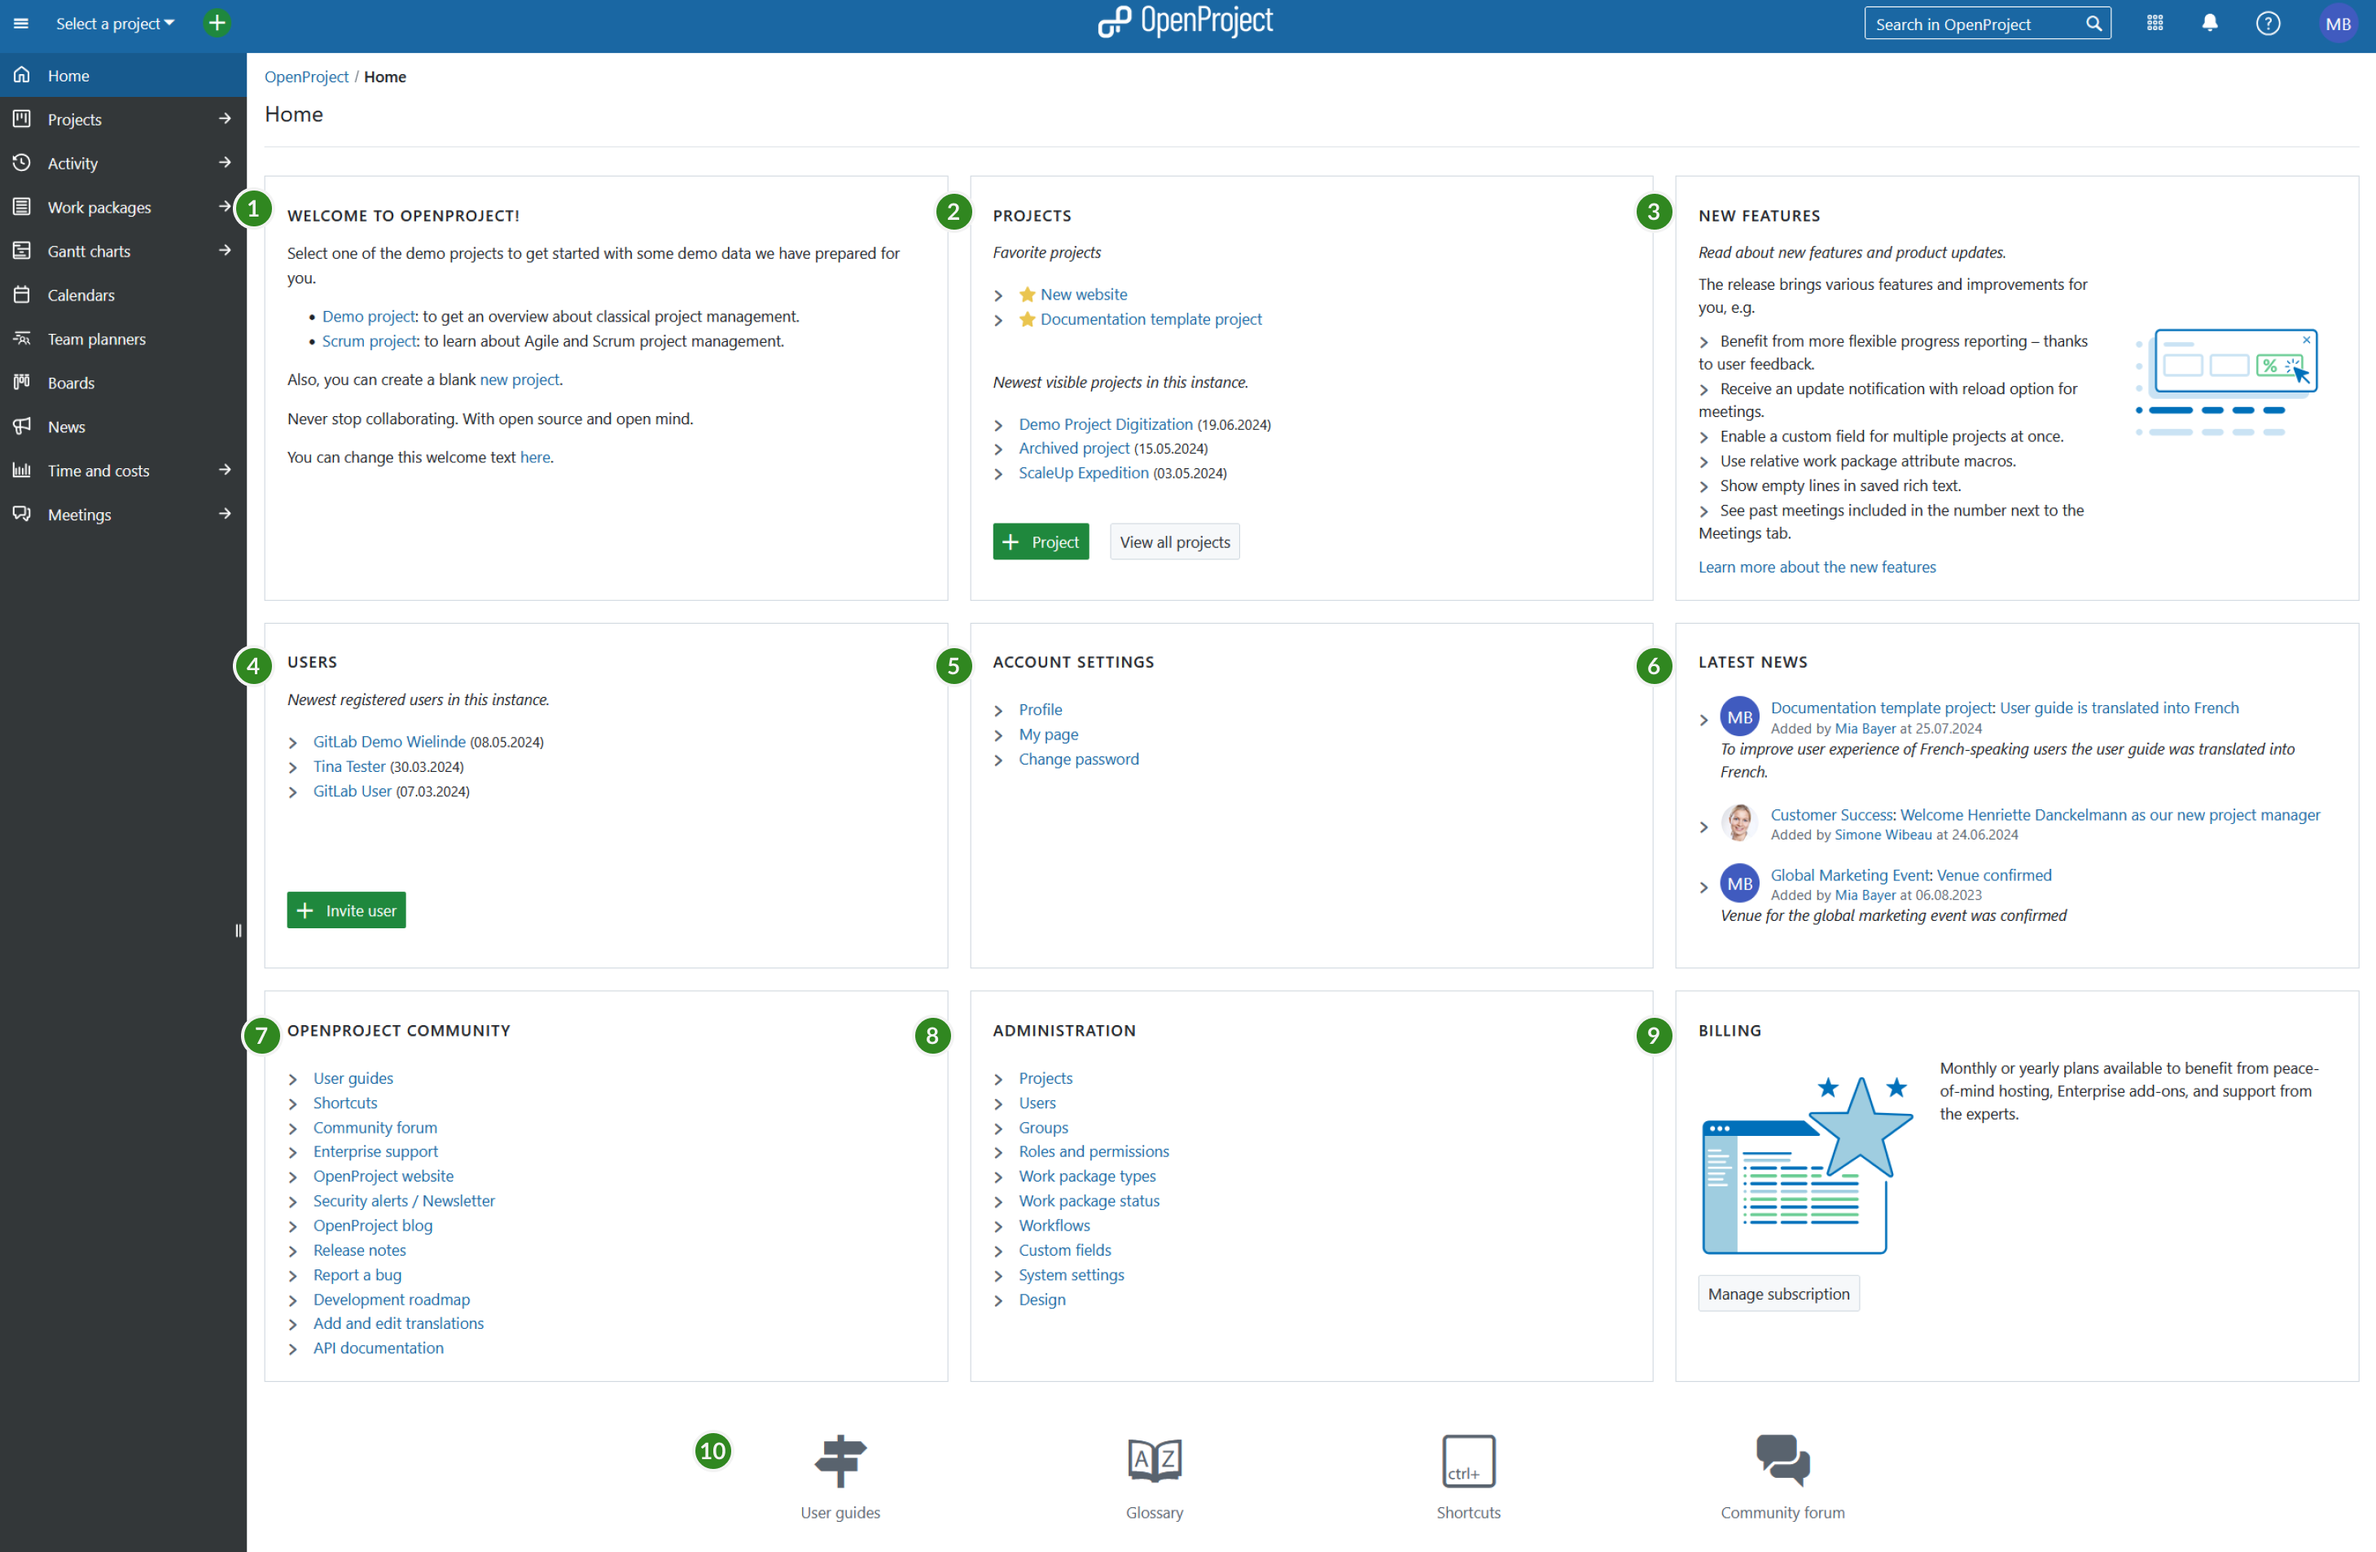
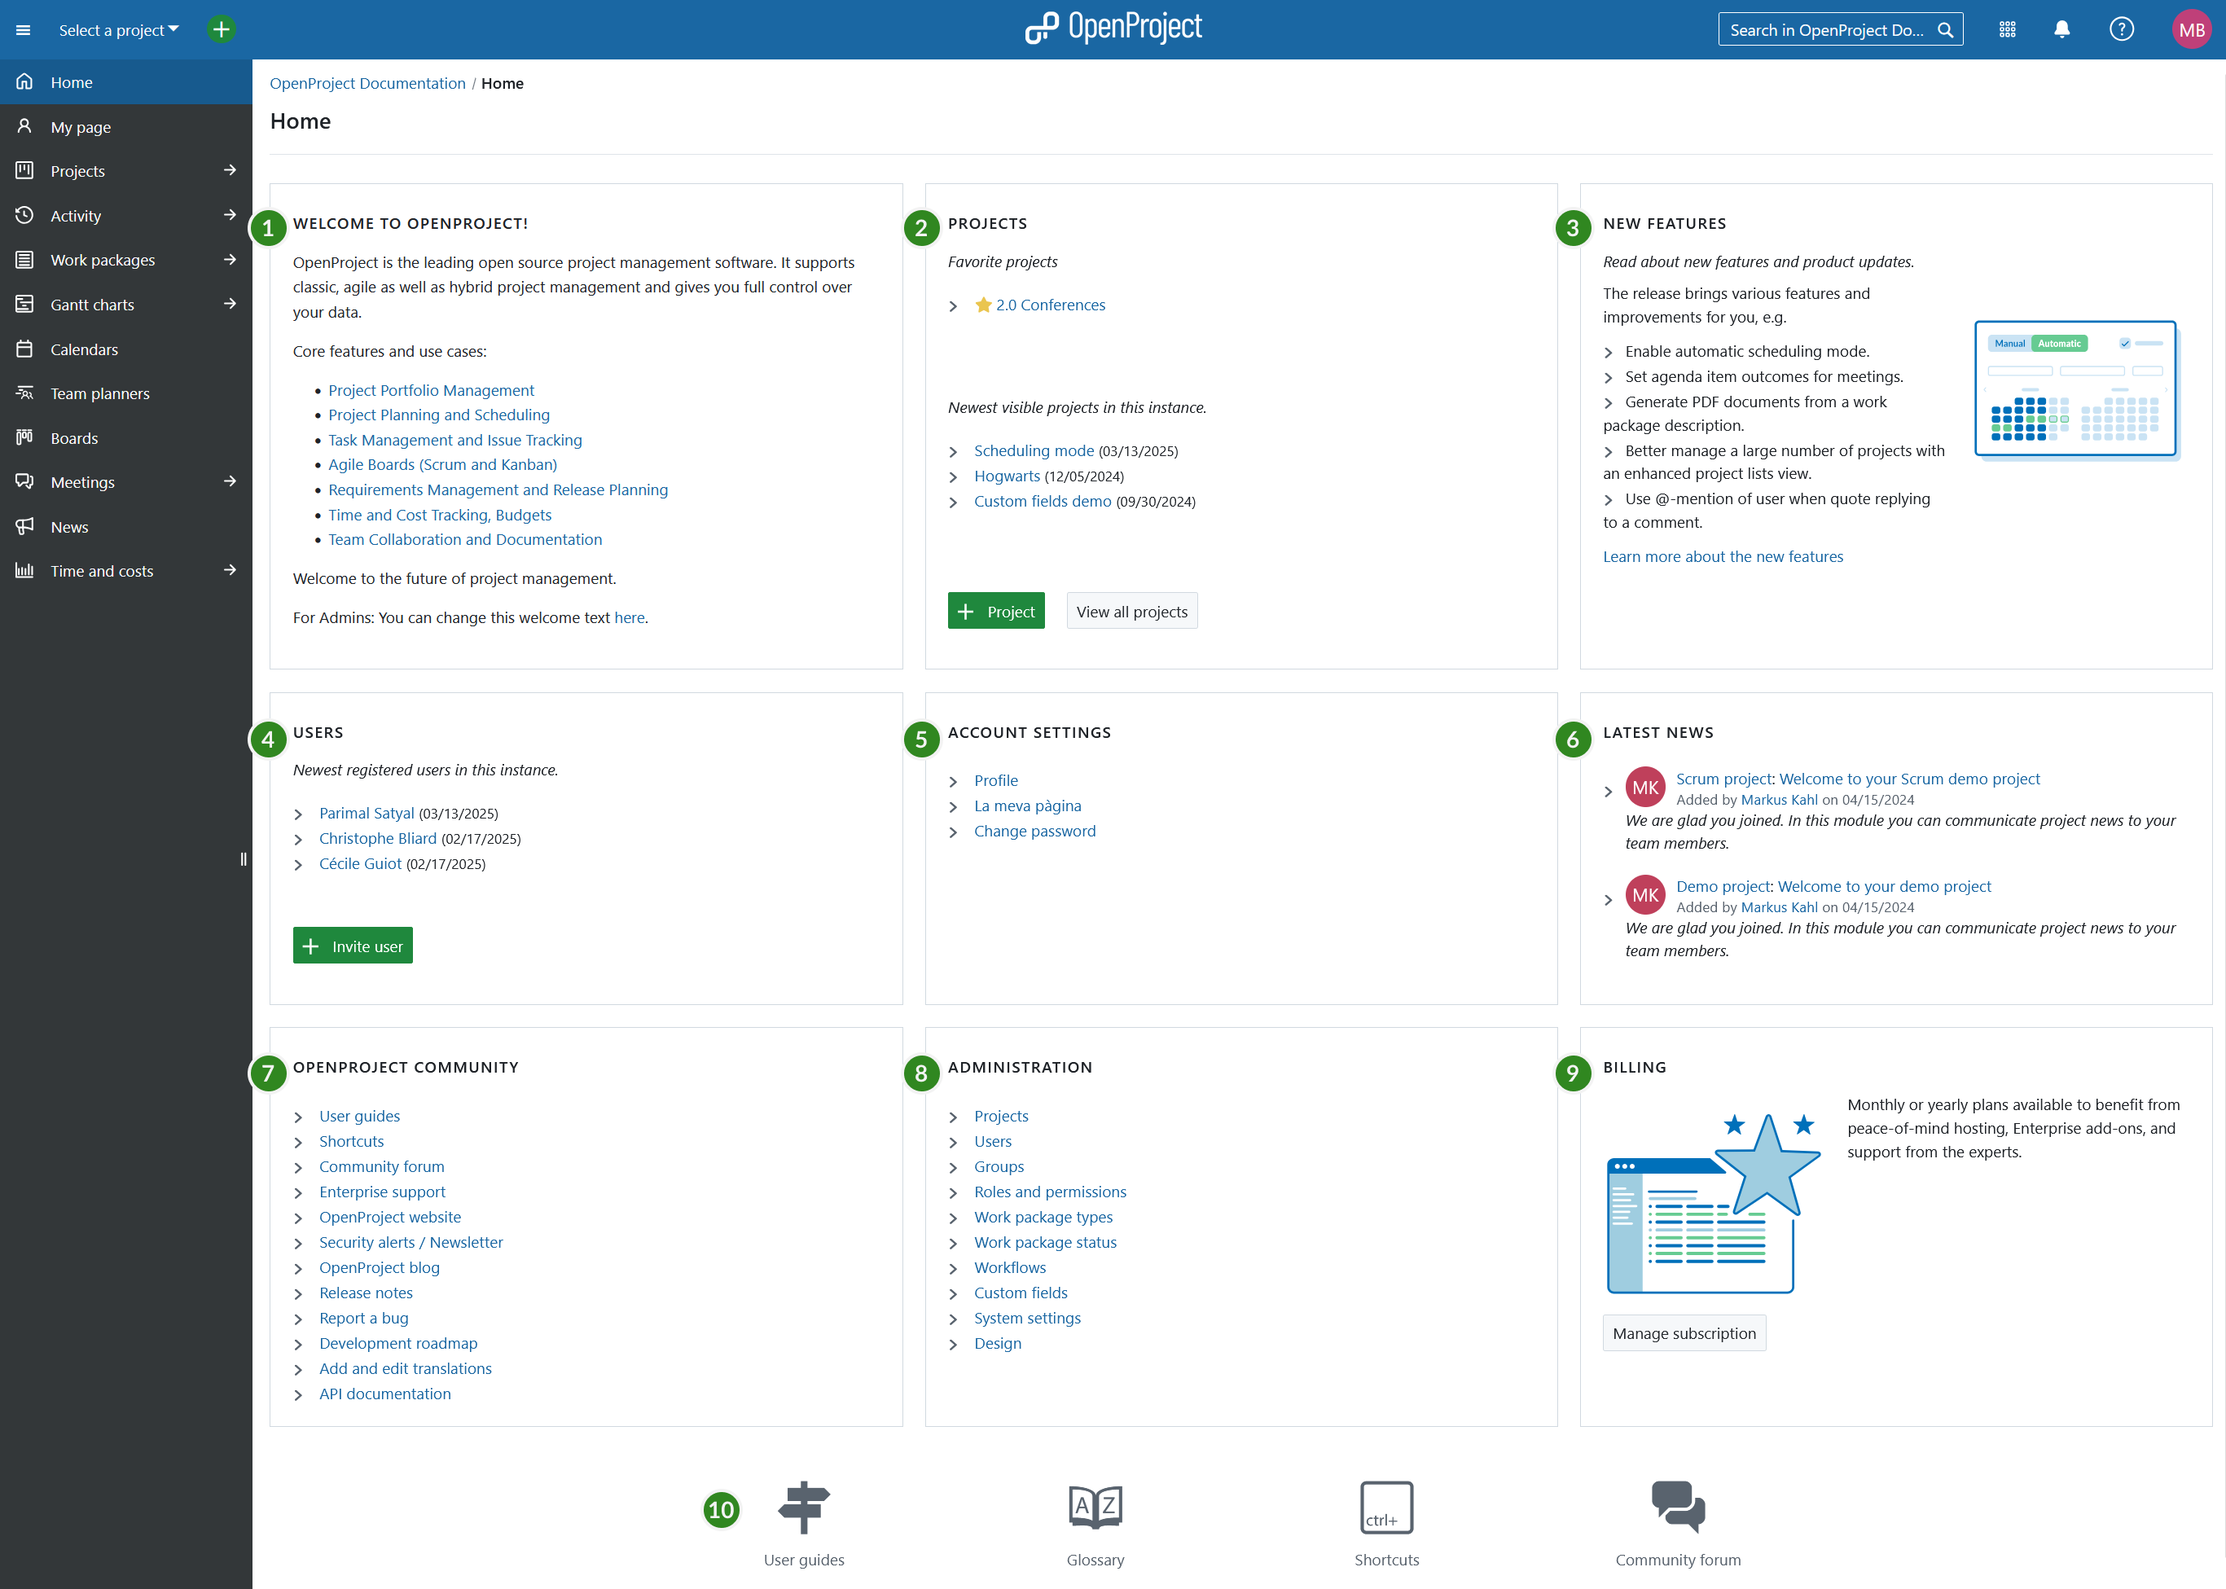
[#62052] Redirect users to the home page, link to My Page to the global menu  https://community.openproject.org/work_packages/62052
[#62052] Redirect users to the home page, link to My Page to the global menu

https://community.openproject.org/work_packages/62052

diff --git a/docs/getting-started/my-page/README.md b/docs/getting-started/my-page/README.md
@@ -20,13 +20,13 @@ The My Page is your **personal dashboard** with important overarching project in
 
 My Page is your personal dashboard where you can display important information of your projects. This personal dashboard contains information from all your projects. **My page** can be configured according to your preferences. You can include project information, for example the latest news, work packages assigned to you or reported work packages.
 
-You can open your **My page** by clicking on your user avatar in the upper right corner and then selecting **My page** from the dropdown menu.
+You can open your **My page** by clicking on your user avatar in the upper right corner and then selecting **My page** from the dropdown menu. Alternatively, you can select *My Page* by clicking the respective option in the menu on the left. 
 
-![navigate to my page](navigate-to-my-page.png)
+![Navigate to My page in OpenProject](openproject_getting_started_my_page_navigate.png)
 
 As a default, you will see two lists of all **work packages assigned to you** and **work packages created by you** from all your projects.
 
-![Default view of My Page in OpenProject](My-page-default-view.png)
+![Default view of My Page in OpenProject](openproject_getting_started_my_page_default_view.png)
 
 ## Configure the My Page
 
@@ -36,7 +36,7 @@ As a default, you will see two lists of all **work packages assigned to you** an
 
 In order to **add a widget to My Page**, decide where you want to place the widget (above, below or between the existing widgets) hover to the respective location around the existing widgets. The **+** icon will appear automatically.
 
-![my page add widget](my-page-add-widget.png)
+![Plus icon to add a new widget to My page in OpenProject](openproject_getting_started_my_page_add_widget_icon.png)
 
 Press the plus icon and choose from a number of different widgets that can be included on your dashboard.
 

diff --git a/docs/system-admin-guide/authentication/authentication-settings/README.md b/docs/system-admin-guide/authentication/authentication-settings/README.md
@@ -66,6 +66,8 @@ There can be defined a number of other authentication settings.
 3. Enable or disable the **autologin option**. This allows a user to remain logged in, even if he/she leaves the site. If this option is activated, the “Stay signed in” option will appear on the login screen to be selected.
 4. Activate the **session expiration option**. If you select this option, an additional field will open, where you will be able to define the **inactivity time duration before the session expiry**.
 5. Define to **log user login, name, and mail address for all requests**.
-7. Do not forget to **save** your changes.
+6. Define a path to redirect users to after their first login. If left empty, users are redirected to the homepage.
+7. Set a default path to redirect users after login (only if the login link is not a back link, i.e. www.example.openproject.com/login). If left empty, users are redirected to the homepage.
+8. Do not forget to **save** your changes.
 
 ![Additional authentication settings in OpenProject administration](openproject_system_admin_guide_authentication_settings_other.png)
